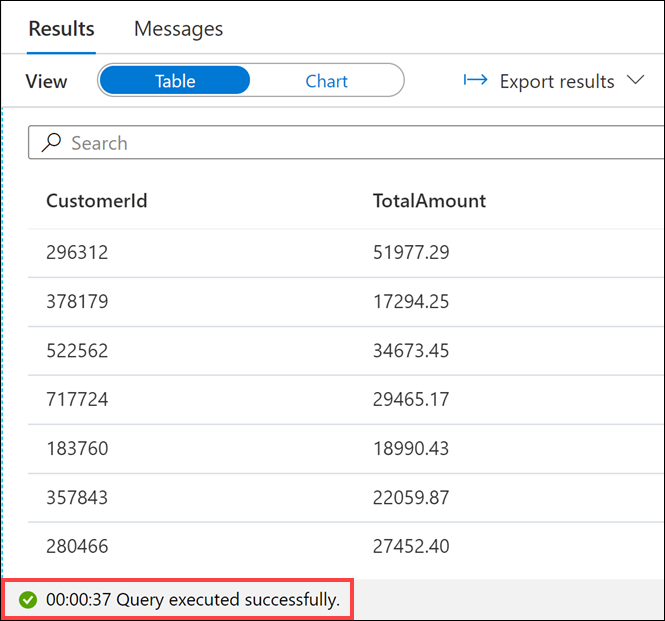
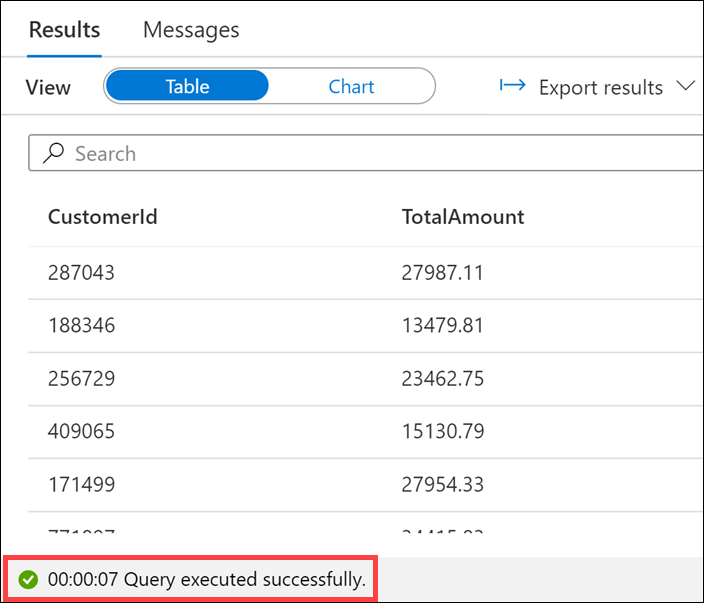
Module 2 updates

Changed region(s): [[0.0, 0.0299, 1.0, 0.7463], [0.0, 0.7761, 1.0, 1.0]]

diff --git a/demos/module2/README.md b/demos/module2/README.md
@@ -426,6 +426,8 @@ Let's start by experimenting with different parameters.
     ORDER BY submit_time, status
     ```
 
+    > **Note:** If there are still active queries, wait a minute or two. They are configured to time out after two minutes since canceling the pipeline does not always cancel the queries.
+
 6. Select **Run** from the toolbar menu to execute the SQL command.
 
     ![The run button is highlighted in the query toolbar.](media/synapse-studio-query-toolbar-run.png "Run")
@@ -709,7 +711,7 @@ Let's start by experimenting with different parameters.
 
     ![The run button is highlighted in the query toolbar.](media/synapse-studio-query-toolbar-run.png "Run")
 
-    You should see a performance improvement executing against the new Hash table compared to the first time we ran the script against the Heap table. In our case, the query executed in about 35 seconds.
+    You should see a performance improvement executing against the new Hash table compared to the first time we ran the script against the Heap table. In our case, the query executed in about 7 seconds.
 
     ![The script run time of 6 seconds is highlighted in the query results.](media/sale-hash-result.png "Hash table results")
 
